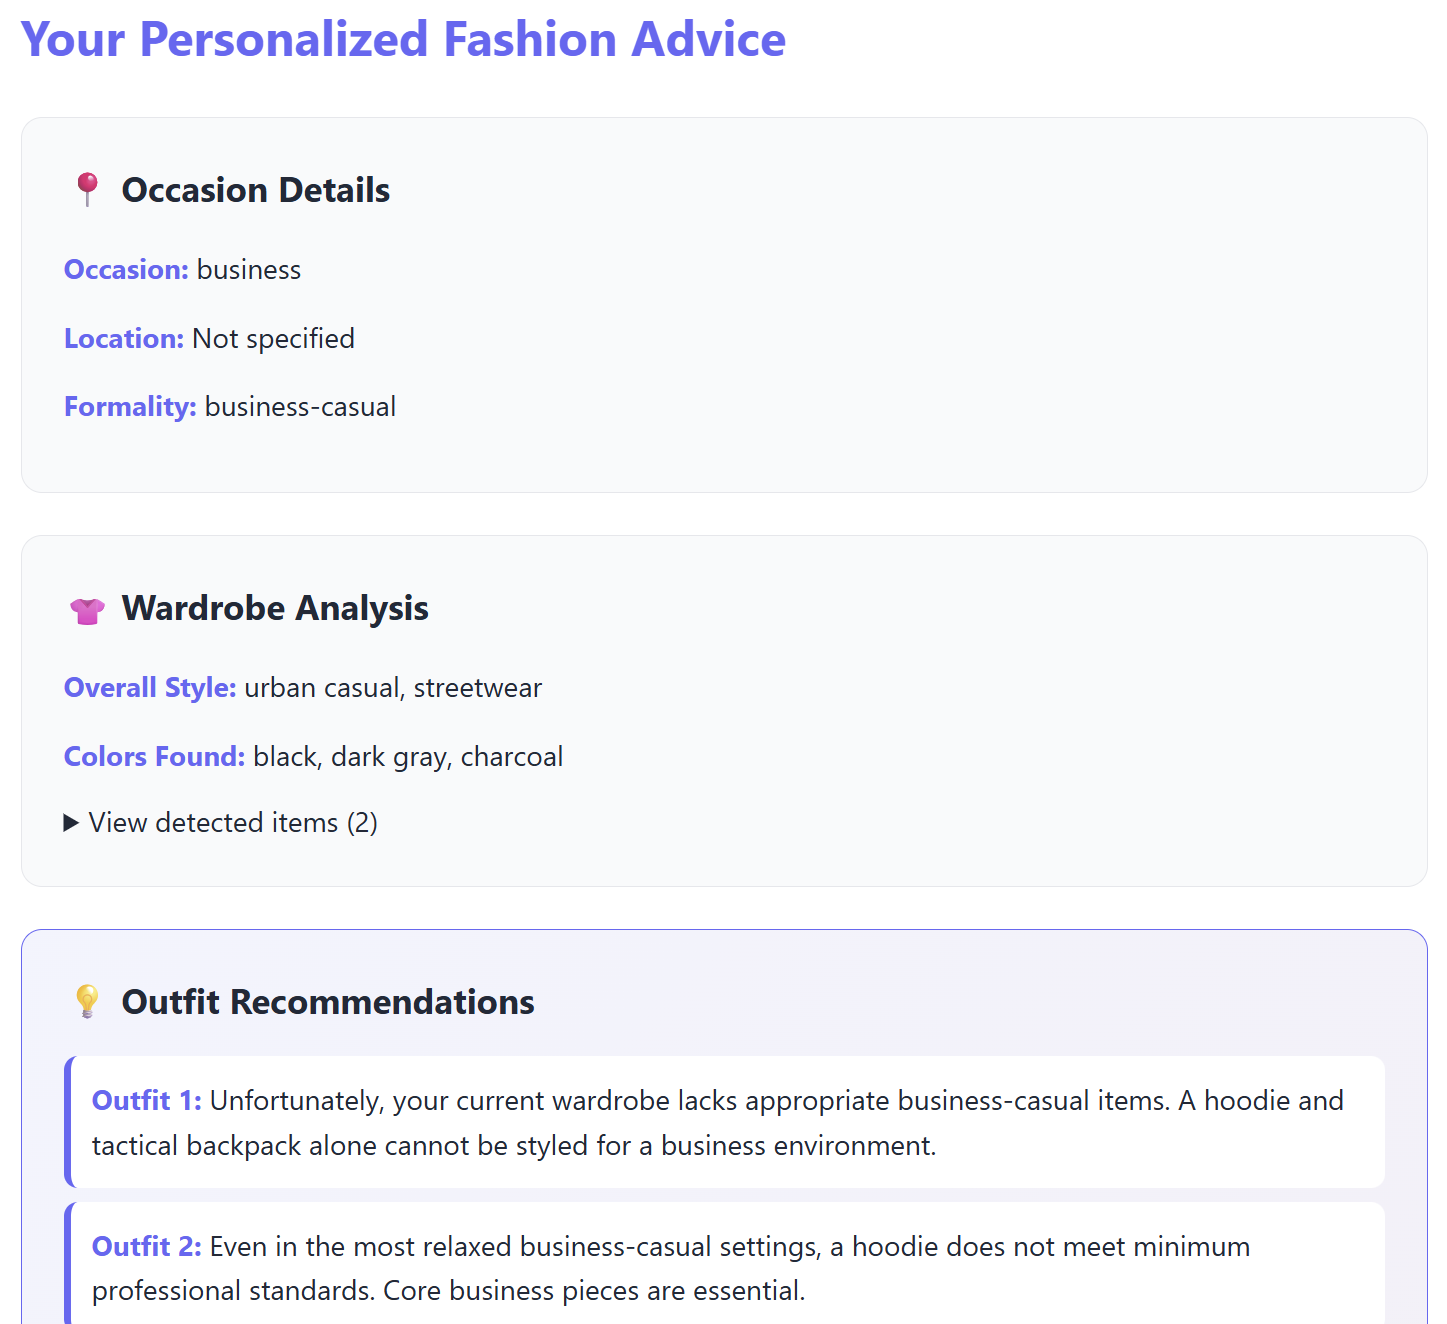
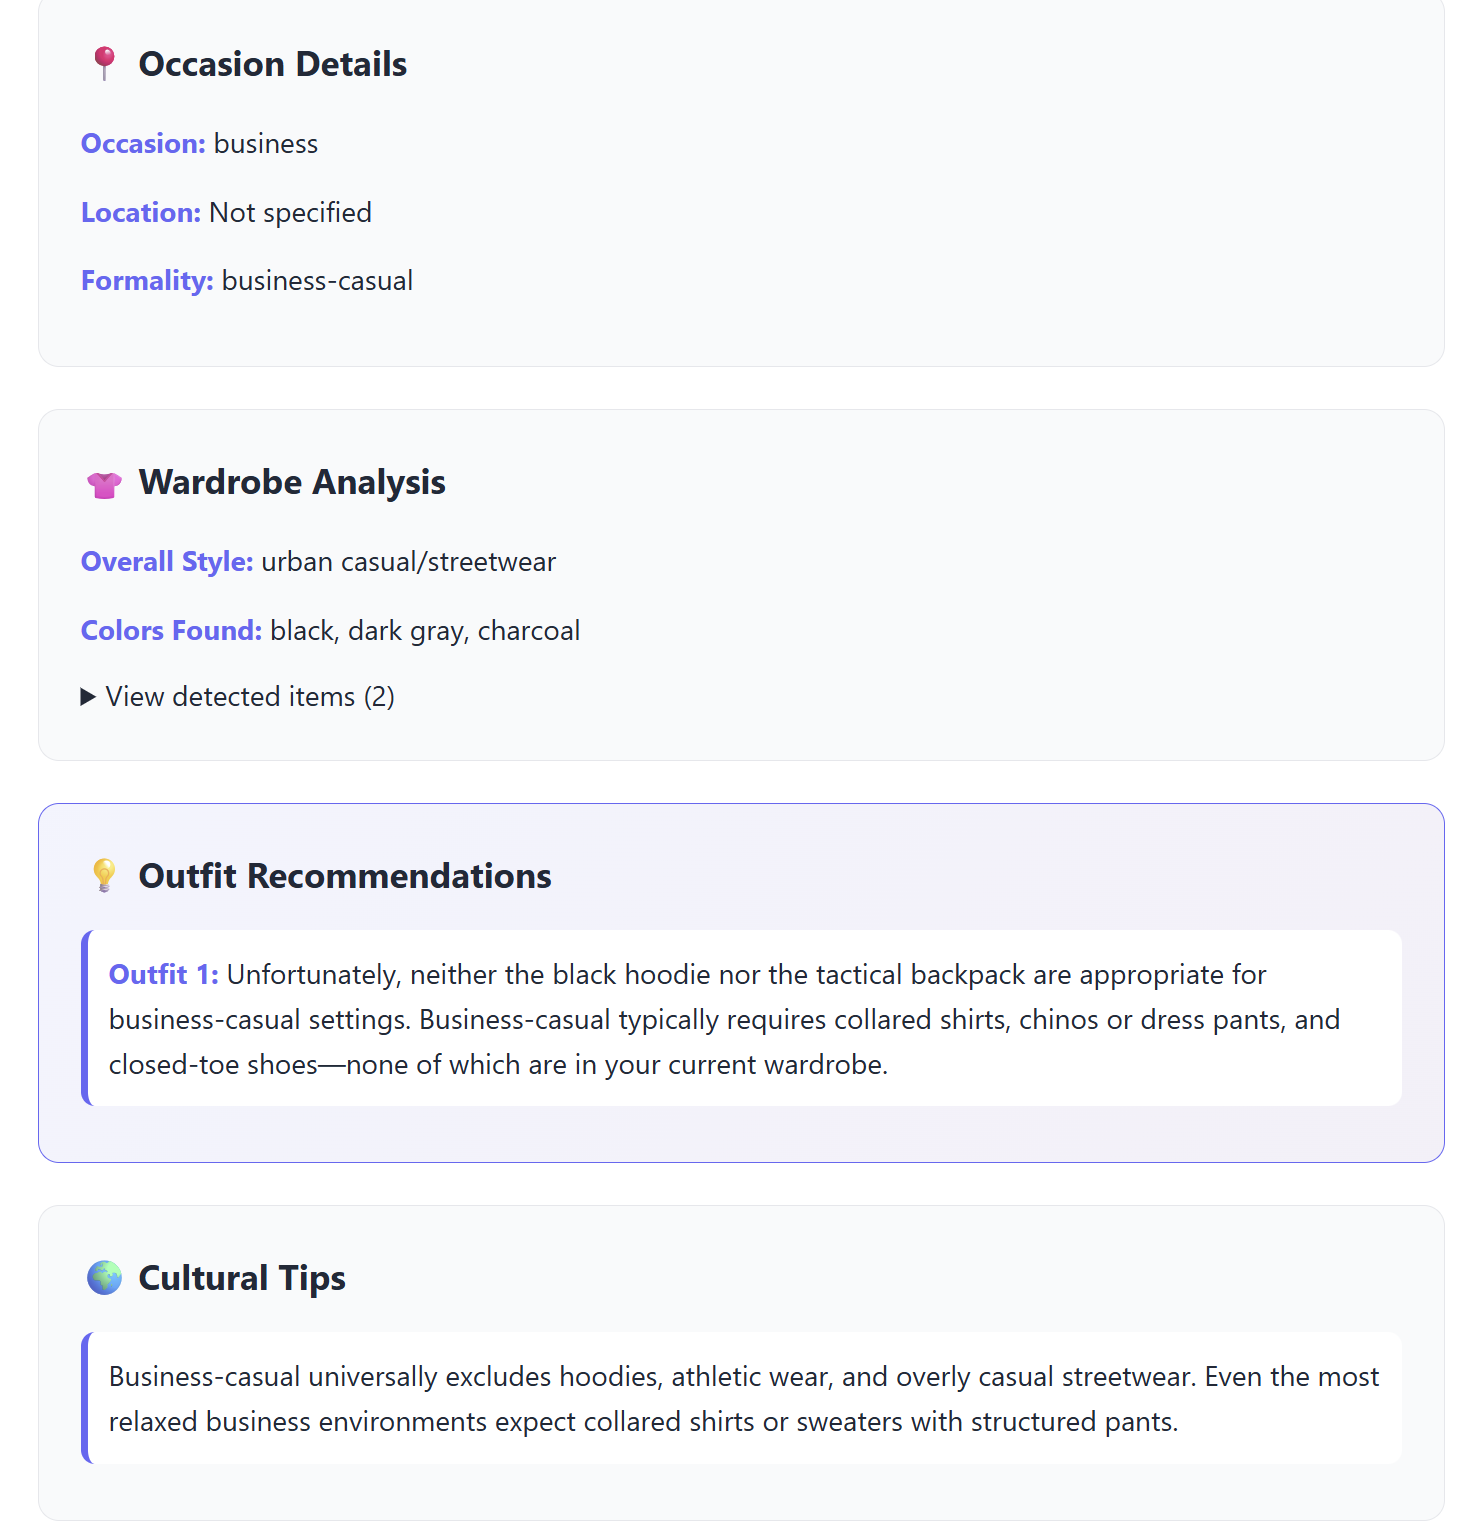
update prompt

diff --git a/src/engine/recommender.ts b/src/engine/recommender.ts
@@ -121,33 +121,39 @@ OCCASION DETAILS:
 - User Preferences: ${occasionContext.preferences?.join(", ") || "None"}
 
 INSTRUCTIONS:
-1. Provide 3 SHORT outfit combinations using items from their wardrobe (1-2 sentences each)
-2. Write a brief summary of overall fashion advice for this occasion (1-2 sentences)
-3. Include ONLY essential cultural tips if the location has specific dress code expectations
-4. List only 2 key items to avoid wearing for this occasion
-5. Suggest shopping items ONLY if essential pieces are missing from their wardrobe
+1. FOCUS: Create 3-5 creative outfit combinations using ONLY items from their existing wardrobe
+   - Each outfit should be 1-2 sentences describing which pieces to wear together
+   - Explain WHY each combination works for this occasion
+   - Help them discover new ways to style what they already own
+2. Provide brief styling advice explaining how to maximize their current wardrobe (1-2 sentences)
+3. Include cultural/location-specific dress tips only if critically important
+4. Suggest 1-2 items to AVOID wearing (style mismatch or cultural inappropriateness)
+5. OPTIONAL: Only suggest shopping for items if there's a critical gap in their wardrobe
+   - Example: "Only if needed: lightweight blazer for formal occasions"
+   - Most users should have sufficient pieces to look great at this event
 
 IMPORTANT:
-- Keep recommendations BRIEF and CONCISE (1-2 sentences maximum per outfit)
-- Use ONLY the items listed in their wardrobe for outfit recommendations
-- Be specific about which items to combine
-- Consider cultural appropriateness for the location
-- Account for weather and formality level
-- Provide actionable, practical advice
+- PRIMARY GOAL: Create great outfits from what they already own
+- Keep outfit recommendations BRIEF (1-2 sentences each)
+- Be SPECIFIC about which wardrobe items to combine (use exact colors/styles)
+- Consider cultural appropriateness, weather, and formality level
+- MINIMIZE shopping suggestions - assume their wardrobe is adequate
+- Focus on styling tips and creative combinations, not on what to buy
+- Provide actionable, practical advice they can use immediately
 
 Return your response as VALID JSON with this exact structure (no markdown code blocks, no extra text):
 {
   "occasion": "${occasionContext.occasion}",
   "location": ${occasionContext.location ? `"${occasionContext.location}"` : "null"},
-  "summary": "overall fashion advice for this occasion in 1-2 sentences",
+  "summary": "how to style their wardrobe for this occasion - focus on creative combinations",
   "recommendations": [
-    "outfit combo 1: brief 1-2 sentence description",
-    "outfit combo 2: brief 1-2 sentence description",
-    "outfit combo 3: brief 1-2 sentence description"
+    "outfit combo 1: specific pieces to wear together and why it works",
+    "outfit combo 2: specific pieces to wear together and why it works",
+    "outfit combo 3: specific pieces to wear together and why it works"
   ],
-  "culturalTips": ["essential tip"] or null if no location-specific tips,
-  "dontWear": ["what to avoid 1"],
-  "shoppingTips": ["essential item to buy"] or null if wardrobe is complete
+  "culturalTips": ["essential dress code requirement"] or null if no critical tips,
+  "dontWear": ["item/style to avoid 1"],
+  "shoppingTips": null (or only include if there's a critical gap like "missing formal shoes")
 }`;
   }
 
